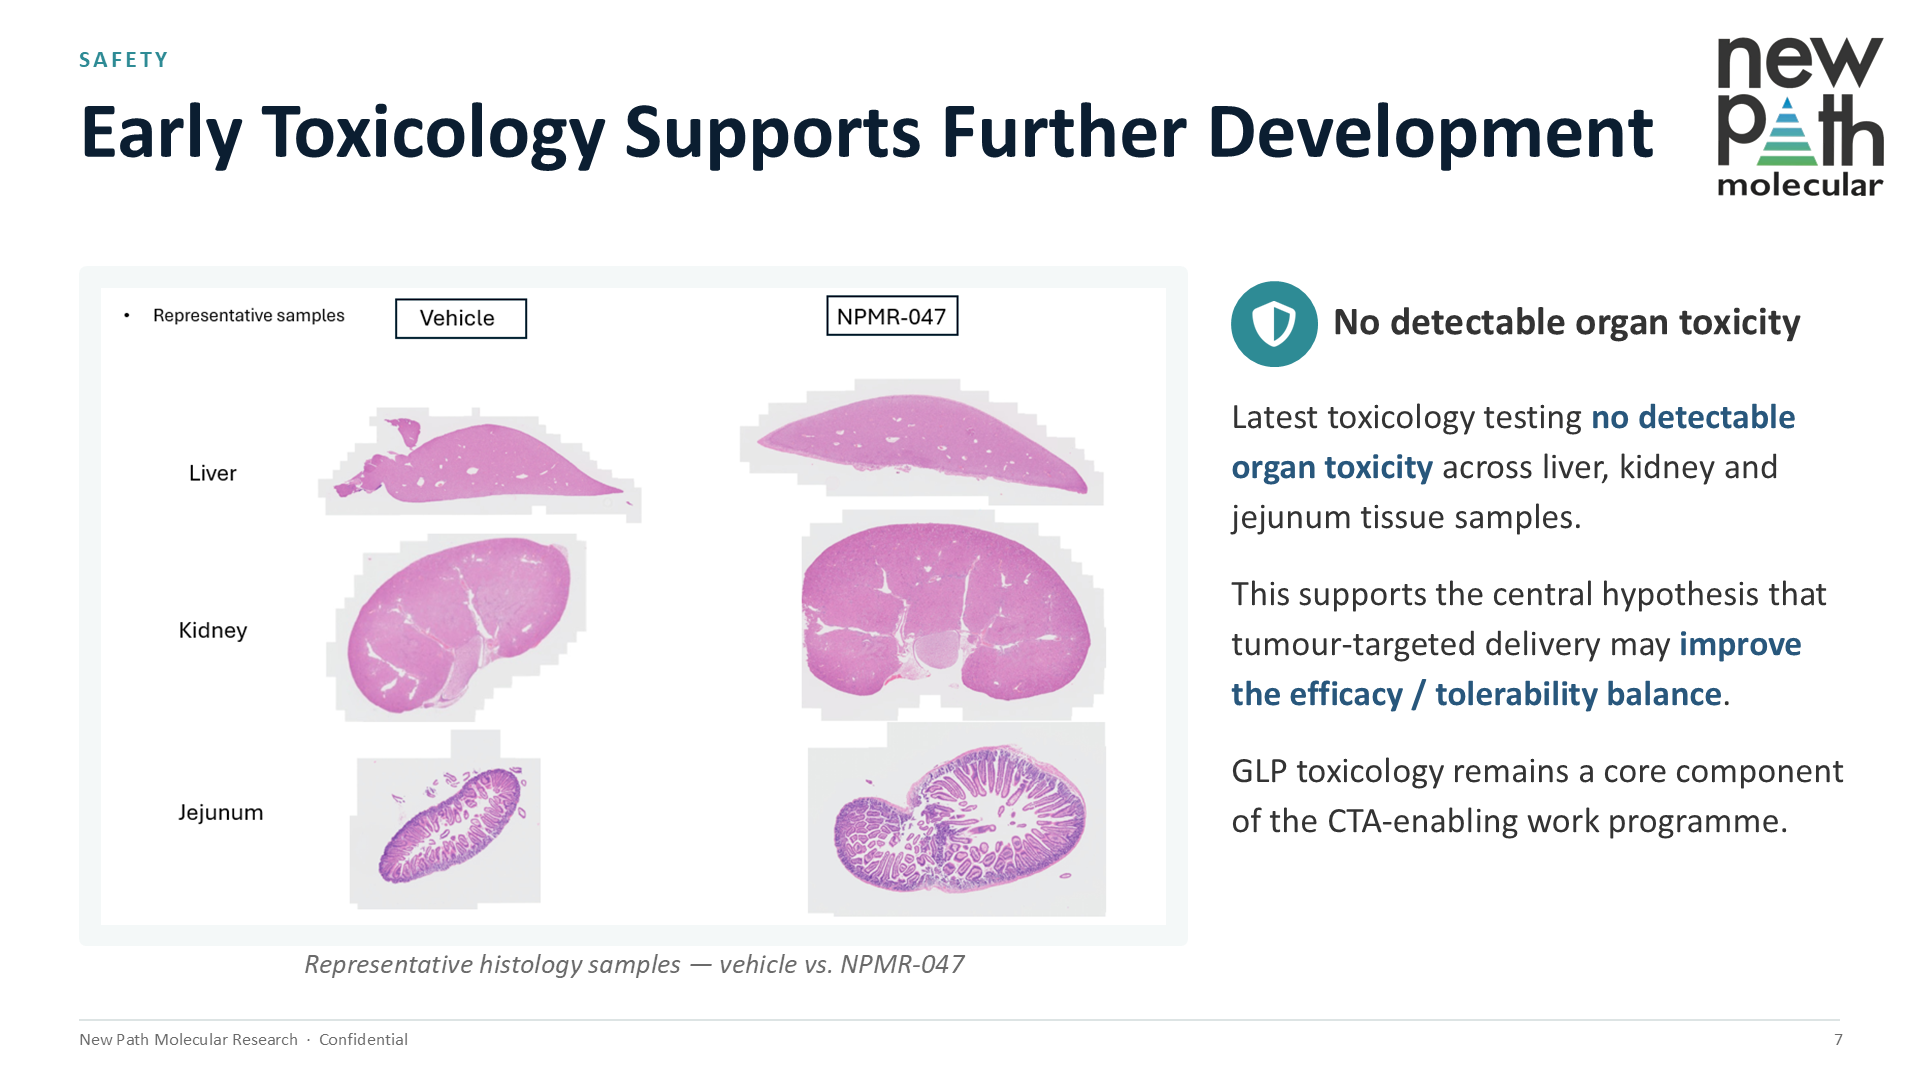
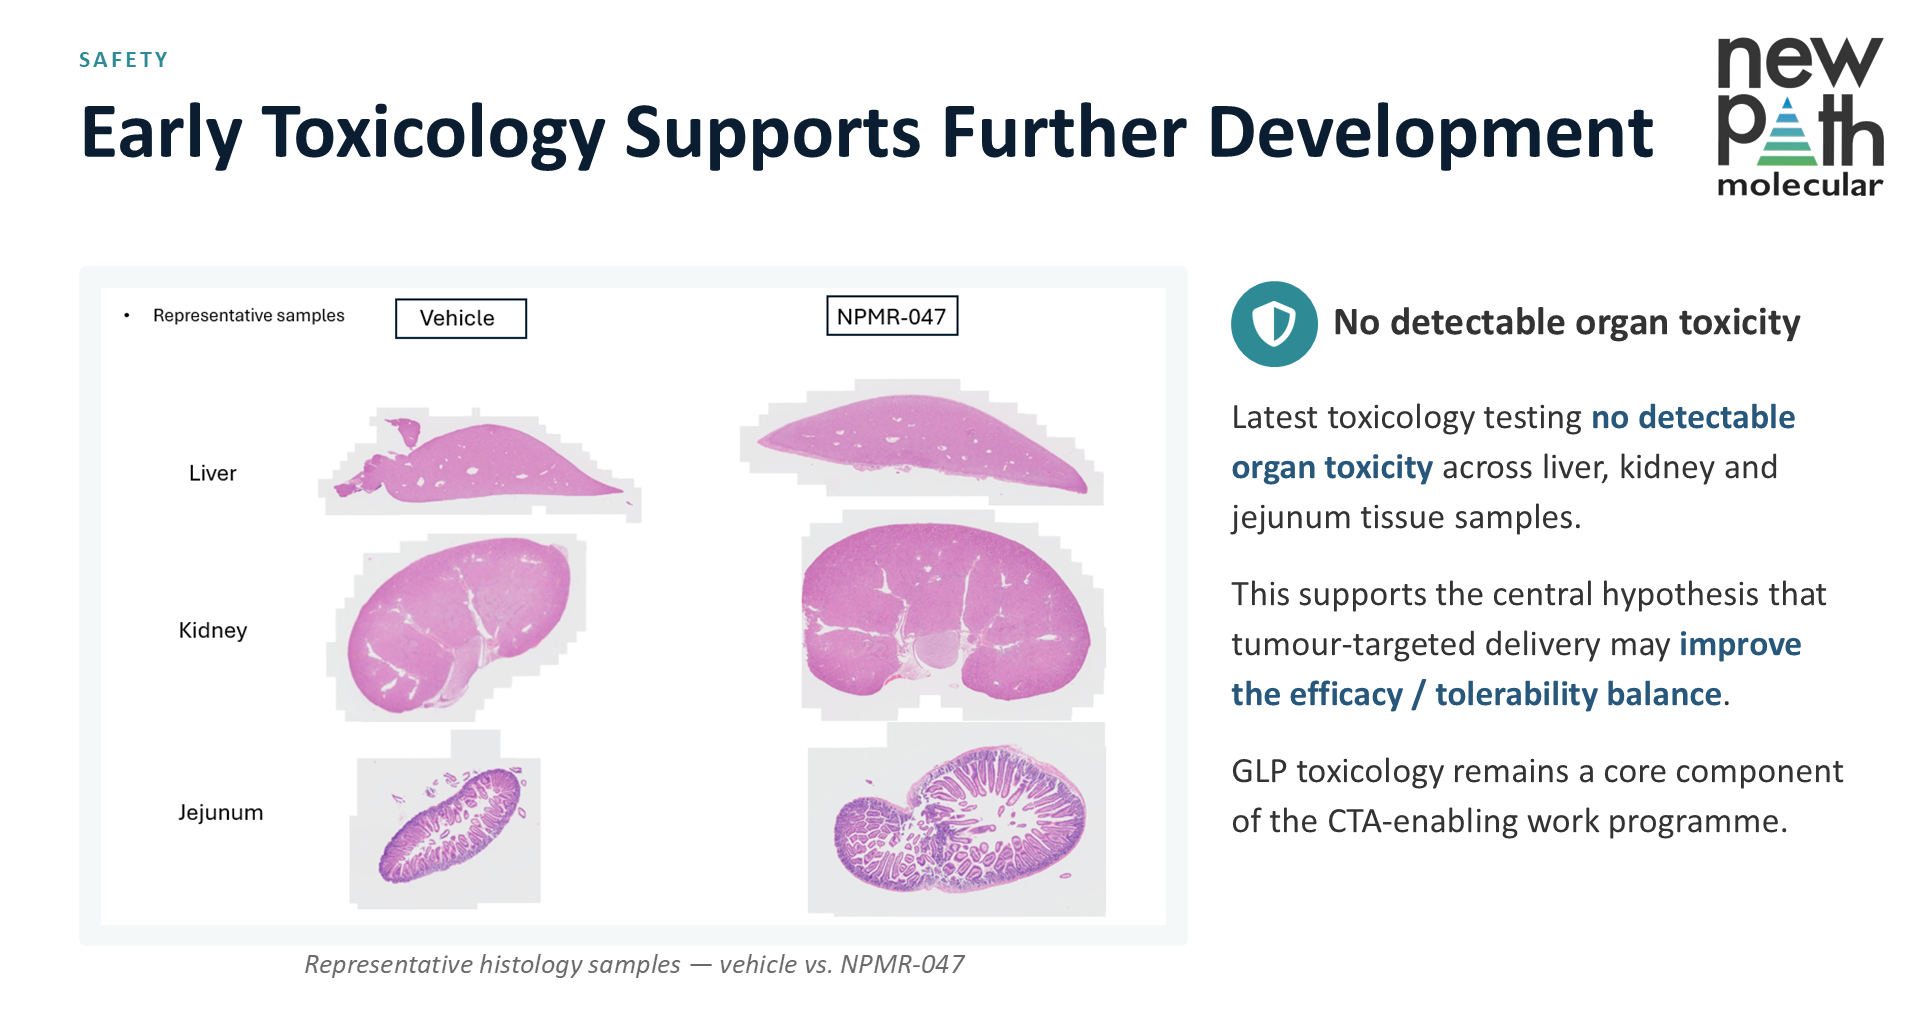
Redesign hero headline, add team photos, reorder sections, fix nav labels

diff --git a/index.html b/index.html
@@ -204,7 +204,7 @@
     }
     #home h1 {
       font-family: 'Montserrat', sans-serif;
-      font-size: 6vw;
+      font-size: clamp(2.6rem, 6vw, 6.5rem);
       font-weight: 600;
       color: #d4f5e8 !important;
       line-height: 1.2;
@@ -214,6 +214,17 @@
       flex-direction: column;
       gap: .25em;
     }
+    /* ── Hero headline stagger ── */
+    #hero-headline .hl {
+      display: block;
+      opacity: 0;
+      transform: translateY(18px);
+      transition: opacity .55s ease, transform .55s ease;
+    }
+    #hero-headline.revealed .hl-1 { opacity: 1; transform: none; transition-delay: 0s; }
+    #hero-headline.revealed .hl-2 { opacity: 1; transform: none; transition-delay: .28s; }
+    #hero-headline.revealed .hl-3 { opacity: 1; transform: none; transition-delay: .65s; }
+
     .hero-phrase {
       display: block;
       opacity: 0;
@@ -865,12 +876,12 @@
     <ul class="nav-links" id="navLinks">
       <li><a href="#home"      class="nav-link" data-section="home">Home</a></li>
       <li><a href="#approach"  class="nav-link" data-section="approach">Approach</a></li>
+      <li><a href="#team"      class="nav-link" data-section="team">Team</a></li>
       <li><a href="#pipeline"  class="nav-link" data-section="pipeline">Pipeline</a></li>
       <li><a href="pipeline/nmpr-047.html" style="color:var(--teal);font-weight:700;">NMPR-047 ↗</a></li>
       <li><a href="#data"      class="nav-link" data-section="data">Data</a></li>
       <li><a href="#mechanism" class="nav-link" data-section="mechanism">Mechanism</a></li>
       <li><a href="#risk"      class="nav-link" data-section="risk">Risk Profile</a></li>
-      <li><a href="#team"      class="nav-link" data-section="team">Team</a></li>
       <li><a href="#news"      class="nav-link" data-section="news">News</a></li>
     </ul>
   </nav>
@@ -891,10 +902,11 @@
 
   <div class="hero-inner">
     <h1 id="hero-headline" style="color:#d4f5e8;">
-      <span class="hero-phrase" id="phrase-1">Chemo efficacy.</span>
-      <span class="hero-phrase" id="phrase-2">Without the toxicity.</span>
-      <span class="hero-phrase" id="phrase-3">Regardless of genetics.</span>
+      <span class="hl hl-1" style="font-weight:800; color:#fff;">Targeted therapy</span>
+      <span class="hl hl-2" style="font-weight:300;">for patients with</span>
+      <span class="hl hl-3" style="font-weight:800; color:#fff;">no targets<span style="color:var(--teal);">.</span></span>
     </h1>
+    <div class="hero-spacer"></div>
     <p class="hero-lead reveal reveal-delay-2">
       New Path Molecular is developing drug conjugates to treat solid tumours, addressing a biomarker present across most solid tumours, independent of genetic profile.
     </p>
@@ -943,7 +955,7 @@
 <!-- ═══ APPROACH ═══ -->
 <section id="approach">
   <div class="section-inner">
-    <div class="section-label reveal">Our approach</div>
+    <div class="section-label reveal">Approach</div>
     <h2 class="section-title reveal">Synthetic chemistry vs. biologics</h2>
     <p class="section-lead reveal">A pan-tumour biomarker. A modality gap. A synthetic solution.</p>
 
@@ -968,10 +980,23 @@
   </div>
 </section>
 
+<!-- ═══ TEAM ═══ -->
+<section id="team">
+  <div class="section-inner">
+    <div class="section-label reveal">Team</div>
+    <h2 class="section-title reveal">The team</h2>
+    <p class="section-lead reveal">Deep expertise in synthetic chemistry, oncology, and translational science.</p>
+
+    <div id="team-list">
+      <div class="sheets-loading">Loading...</div>
+    </div>
+  </div>
+</section>
+
 <!-- ═══ PIPELINE ═══ -->
 <section id="pipeline">
   <div class="section-inner">
-    <div class="section-label reveal">Development pipeline</div>
+    <div class="section-label reveal">Pipeline</div>
     <h2 class="section-title reveal">Our programmes</h2>
     <p class="section-lead reveal">NMPR-047 in candidate selection across two tumour types, with platform expansion planned. Pipeline current as of: 28 July 2026.</p>
 
@@ -1078,7 +1103,7 @@
 <!-- ═══ DATA ═══ -->
 <section id="data">
   <div class="section-inner">
-    <div class="section-label reveal">Preclinical evidence</div>
+    <div class="section-label reveal">Data</div>
     <h2 class="section-title reveal">What the data show</h2>
     <p class="section-lead reveal">Reproducible findings across colorectal adenocarcinoma and pancreatic ductal adenocarcinoma models from NMPR-047 trials.</p>
 
@@ -1116,8 +1141,8 @@
 <!-- ═══ MECHANISM ═══ -->
 <section id="mechanism">
   <div class="section-inner">
-    <div class="section-label reveal">Mechanism of action</div>
-    <h2 class="section-title reveal">How PDC-1 works</h2>
+    <div class="section-label reveal">Mechanism</div>
+    <h2 class="section-title reveal">How NMPR-047 works</h2>
     <div class="moa-sequence" style="margin-top:3.5rem;">
 
       <!-- Step 01 -->
@@ -1187,7 +1212,7 @@
 <!-- ═══ RISK PROFILE ═══ -->
 <section id="risk" style="padding-bottom:3rem;">
   <div class="section-inner">
-    <div class="section-label reveal">Risk profile</div>
+    <div class="section-label reveal">Risk Profile</div>
     <h2 class="section-title reveal">Risks? Addressed.</h2>
     <div style="display:flex;flex-direction:row;gap:1.5rem;margin-top:3rem;flex-wrap:wrap;">
 
@@ -1210,23 +1235,10 @@
   </div>
 </section>
 
-<!-- ═══ TEAM ═══ -->
-<section id="team">
-  <div class="section-inner">
-    <div class="section-label reveal">Leadership</div>
-    <h2 class="section-title reveal">The team</h2>
-    <p class="section-lead reveal">Deep expertise in synthetic chemistry, oncology, and translational science.</p>
-
-    <div id="team-list">
-      <div class="sheets-loading">Loading...</div>
-    </div>
-  </div>
-</section>
-
 <!-- ═══ NEWS ═══ -->
 <section id="news">
   <div class="section-inner">
-    <div class="section-label reveal">Updates</div>
+    <div class="section-label reveal">News</div>
     <h2 class="section-title reveal">News &amp; announcements</h2>
     <p class="section-lead reveal">Latest updates from New Path Molecular.</p>
     <div class="news-list" id="news-list">
@@ -1443,19 +1455,17 @@
   loadContent();
 
 
-  // ── Hero phrase auto-sequence (triggers once logo reaches nav) ──
-  const phrases = document.querySelectorAll('.hero-phrase');
-  let phrasesTriggered = false;
-  function triggerPhrases() {
-    if (phrasesTriggered) return;
-    phrasesTriggered = true;
-    phrases.forEach((phrase, i) => {
-      setTimeout(() => phrase.classList.add('visible'), i * 900);
-    });
+  // ── Hero headline stagger (triggers once logo reaches nav) ──
+  const heroHeadline = document.getElementById('hero-headline');
+  let headlineTriggered = false;
+  function triggerHeadline() {
+    if (headlineTriggered || !heroHeadline) return;
+    headlineTriggered = true;
+    heroHeadline.classList.add('revealed');
   }
   window.addEventListener('scroll', () => {
     const progress = Math.max(0, Math.min(1, window.scrollY / (window.innerHeight * 0.9)));
-    if (progress >= 0.75) triggerPhrases();
+    if (progress >= 0.75) triggerHeadline();
   }, { passive: true });
 </script>
 </body>
